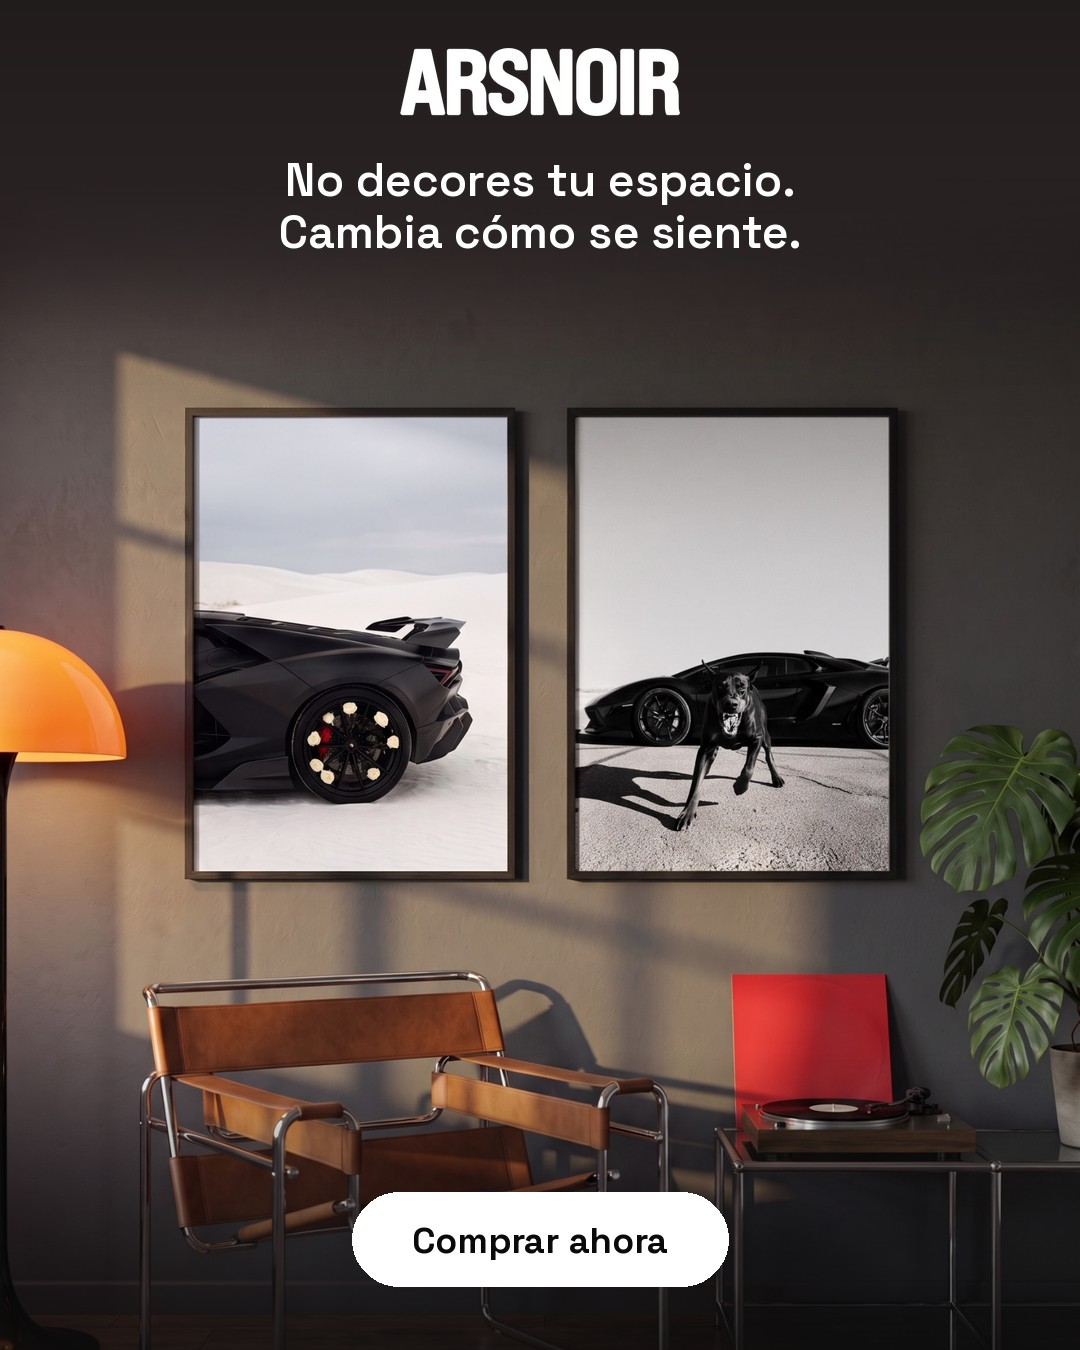
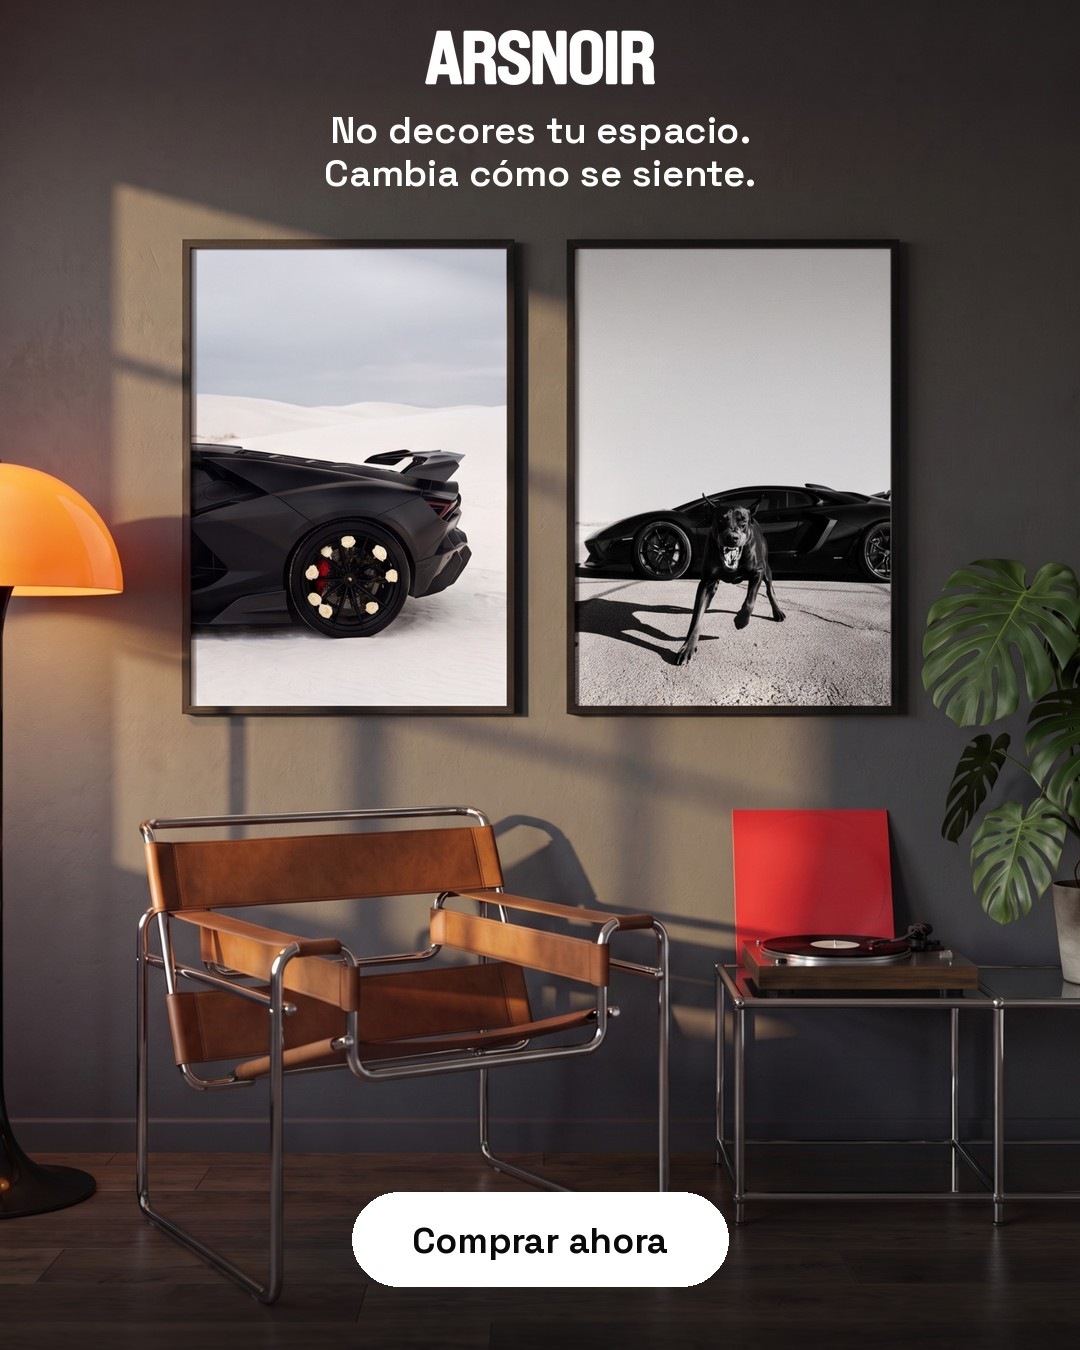
Meta Ads: c17 uses the photo's own wall (no flat fill or top fade); 9:16 reframed on the two prints
Claude-Session: https://claude.ai/code/session_0194VZ5ga5soZRAmzpfCecMg

diff --git a/data/meta-ads-creativos.py b/data/meta-ads-creativos.py
@@ -611,25 +611,42 @@ shop_tags_ad(
 )
 
 
+def wall_scene(src, W, H, photo_h, photo_y, center_x):
+    """La foto escalada a `photo_h` de alto, encuadrada en `center_x` (0–1). Si sobra lienzo arriba,
+    se rellena con la propia pared de la foto en espejo (sin colores planos ni cortes)."""
+    k = photo_h / src.height
+    pw = round(src.width * k)
+    ph = round(photo_h)
+    big = src.resize((pw, ph), Image.LANCZOS)
+    x0 = min(max(round(center_x * pw - W / 2), 0), pw - W)
+    big = big.crop((x0, 0, x0 + W, ph))
+    im = Image.new("RGB", (W, H))
+    if photo_y > 0:
+        strip = big.crop((0, 0, W, photo_y)).transpose(Image.FLIP_TOP_BOTTOM).filter(ImageFilter.GaussianBlur(6))
+        im.paste(strip, (0, 0))
+    im.paste(big, (0, photo_y))
+    return im.convert("RGBA")
+
+
 def brand_button_ad(cid, photo, lines, button):
-    """Logotipo ARSNOIR en blanco y la frase arriba, sobre la pared; el botón solo, abajo."""
+    """Logotipo ARSNOIR en blanco y la frase arriba, sobre la pared de la foto; el botón solo, abajo."""
     src = Image.open(M / photo).convert("RGB")
     logo_src = Image.open(M / "ads/src/logo-arsnoir-blanco.png")
     for fmt, (W, H) in {"4x5": (1080, 1350), "9x16": (1080, 1920)}.items():
-        photo_y = 170 if fmt == "4x5" else 470
-        im = scene_canvas(src, W, H, photo_y)
-        im.alpha_composite(gradient(W, 260 + photo_y, 110, 0), (0, 0))
+        if fmt == "4x5":
+            im = wall_scene(src, W, H, H, 0, 0.5)
+            lw, ly, size, gap = 230, 30, 38, 20
+        else:
+            im = wall_scene(src, W, H, H - 260, 260, 0.502)
+            lw, ly, size, gap = 280, 300, 50, 34
         bot = 300 if fmt == "4x5" else 560
-        im.alpha_composite(gradient(W, bot, 0, 200), (0, H - bot))
-        lw = 280
+        im.alpha_composite(gradient(W, bot, 0, 190), (0, H - bot))
         logo = logo_src.resize((lw, round(logo_src.height * lw / logo_src.width)), Image.LANCZOS)
-        ly = 48 if fmt == "4x5" else 285
         im.alpha_composite(logo, ((W - lw) // 2, ly))
         d = ImageDraw.Draw(im)
         cx = W / 2
-        size = 46 if fmt == "4x5" else 52
         f = grotesk(size, 600)
-        y = ly + logo.height + (34 if fmt == "4x5" else 44)
+        y = ly + logo.height + gap
         for line in lines:
             centered(d, cx, y, line, f, WHITE)
             y += round(size * 1.12)
